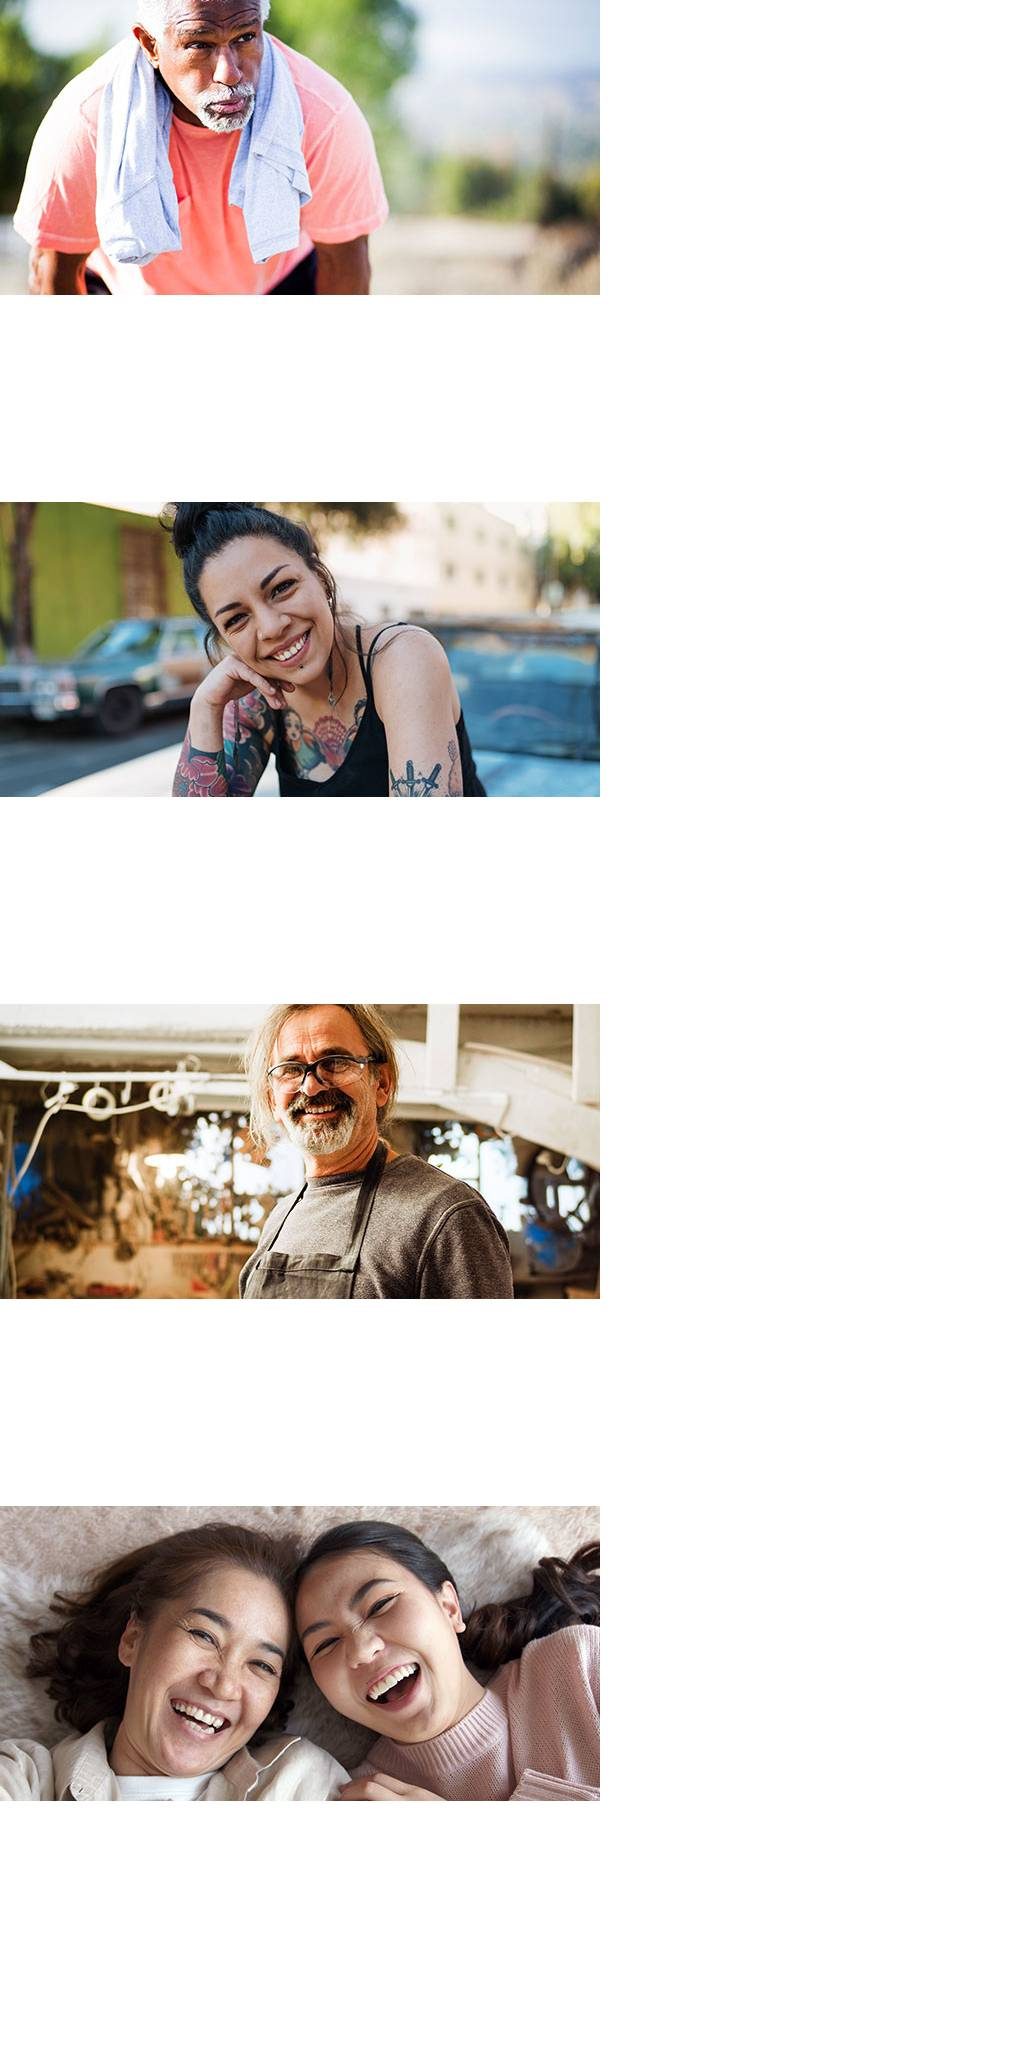
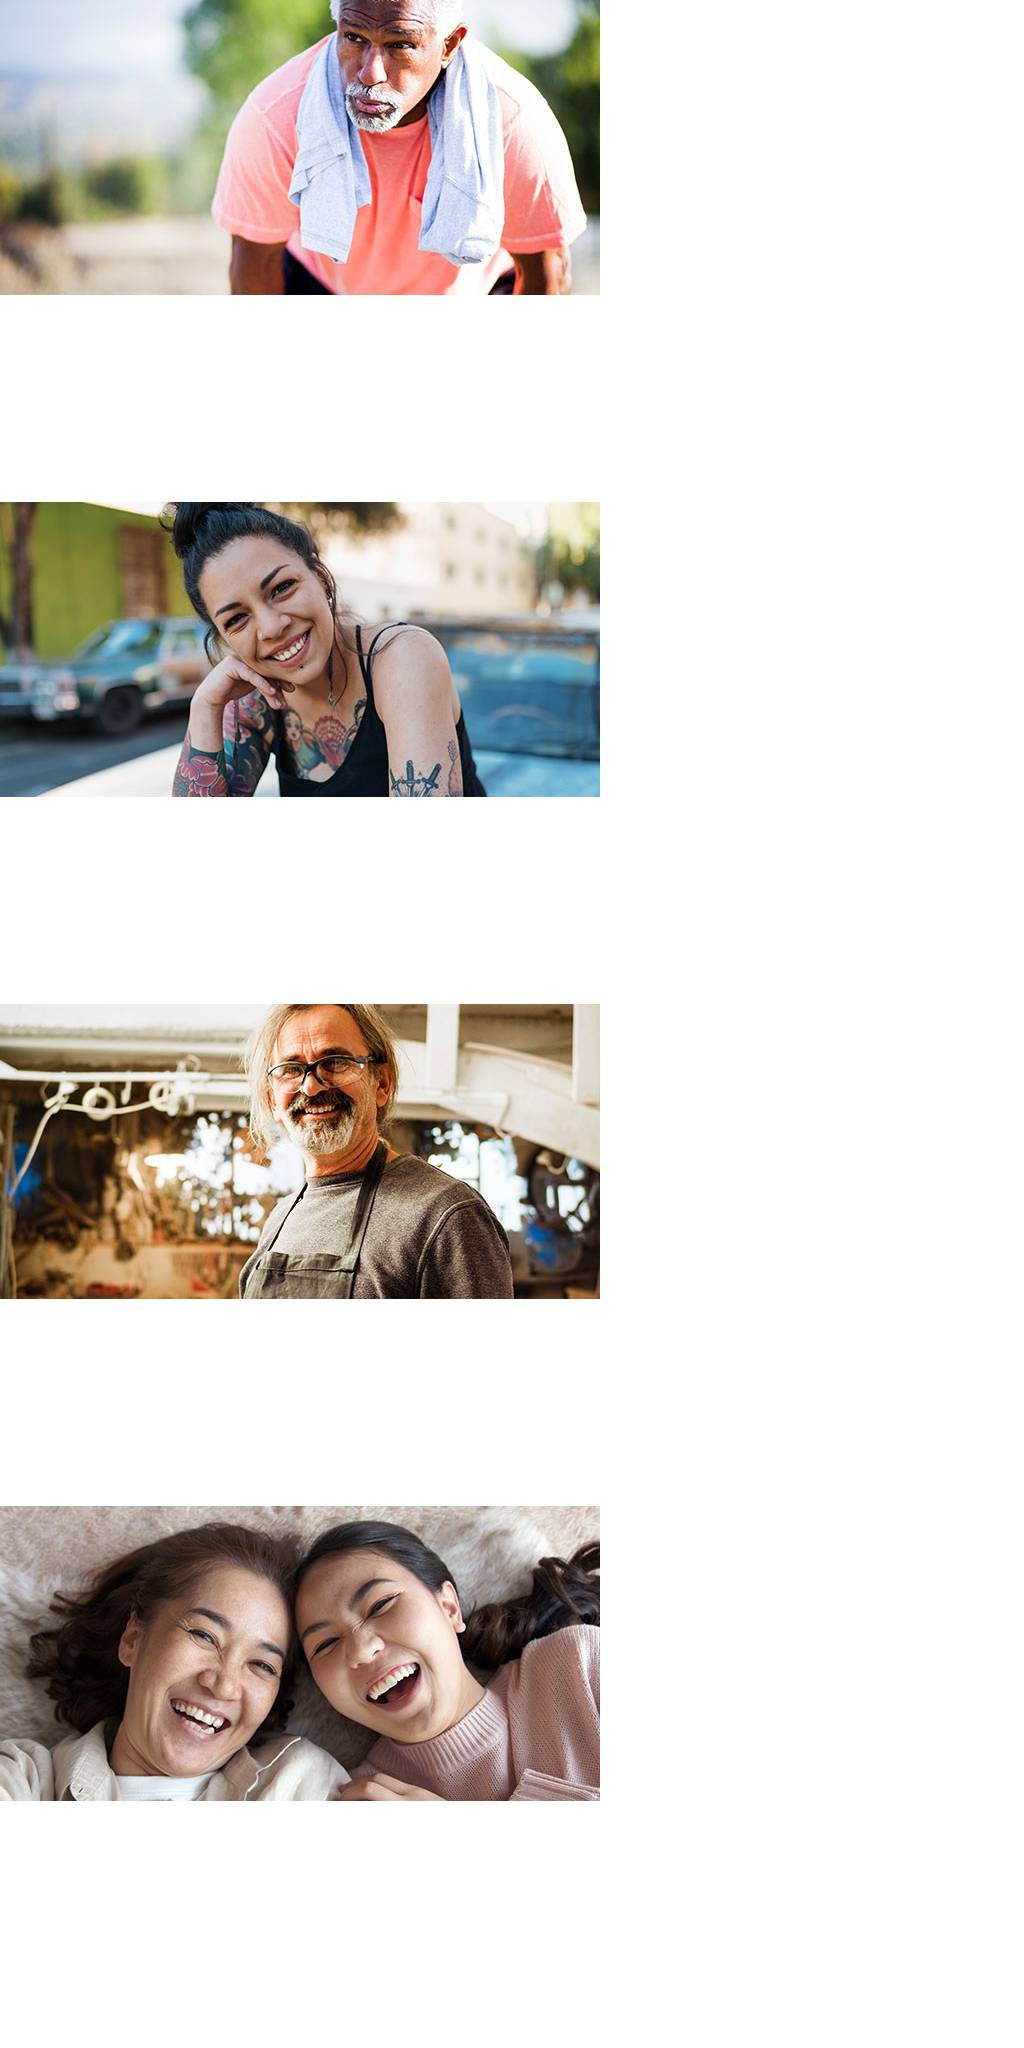
Add files via upload

Changed region(s): [[0.0, 0.0, 0.5938, 0.1562]]

diff --git a/CO-Diabetes/728x90/CO_Diabetes_728x90.js b/CO-Diabetes/728x90/CO_Diabetes_728x90.js
@@ -149,13 +149,13 @@ if (reversed == null) { reversed = false; }
 
 	// Layer_1
 	this.instance = new lib.CO_Diabetes_300x2501();
-	this.instance.setTransform(-24,-166,0.68,0.68);
+	this.instance.setTransform(-134,-166,0.68,0.68);
 
 	this.timeline.addTween(cjs.Tween.get(this.instance).wait(1));
 
 	this._renderFirstFrame();
 
-}).prototype = getMCSymbolPrototype(lib.PIC1, new cjs.Rectangle(-24,-166,408,340), null);
+}).prototype = getMCSymbolPrototype(lib.PIC1, new cjs.Rectangle(-134,-166,408,340), null);
 
 
 (lib.HS_logowhite = function(mode,startPosition,loop,reversed) {
@@ -798,7 +798,7 @@ lib.properties = {
 	color: "#999999",
 	opacity: 1.00,
 	manifest: [
-		{src:"images/CO_Diabetes_728x90_atlas_NP_1.jpg?1651266791015", id:"CO_Diabetes_728x90_atlas_NP_1"}
+		{src:"images/CO_Diabetes_728x90_atlas_NP_1.jpg?1651268629236", id:"CO_Diabetes_728x90_atlas_NP_1"}
 	],
 	preloads: []
 };

diff --git a/CO-Diabetes/300x250/CO_Diabetes_300x250.js b/CO-Diabetes/300x250/CO_Diabetes_300x250.js
@@ -775,7 +775,7 @@ lib.properties = {
 	color: "#999999",
 	opacity: 1.00,
 	manifest: [
-		{src:"images/CO_Diabetes_300x250_atlas_NP_1.jpg?1651265856038", id:"CO_Diabetes_300x250_atlas_NP_1"}
+		{src:"images/CO_Diabetes_300x250_atlas_NP_1.jpg?1651268419354", id:"CO_Diabetes_300x250_atlas_NP_1"}
 	],
 	preloads: []
 };
